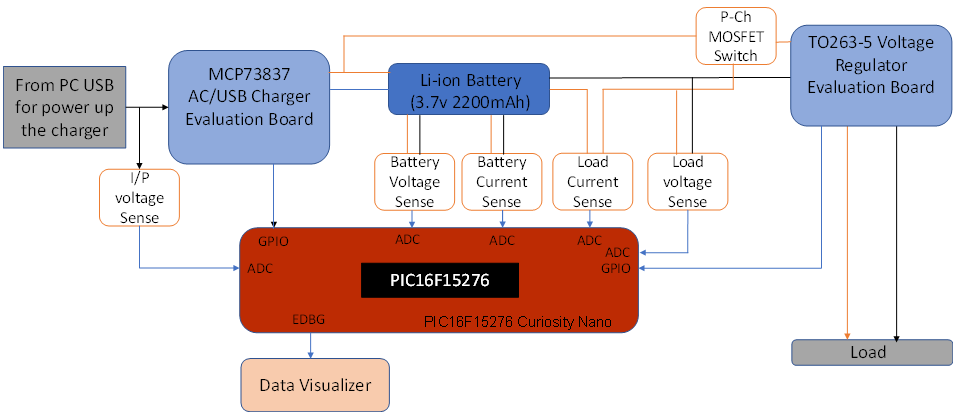
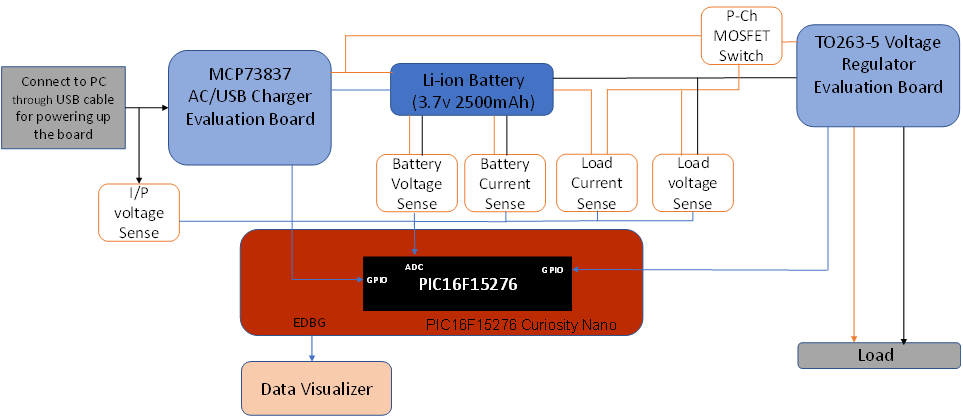
MPAE-13277 Updated the readme blockdiagram

diff --git a/README.md b/README.md
@@ -24,7 +24,7 @@ This code example highlights the implementation of a Battery Monitoring System u
 
 ## Demo Description 
 
-The Battery Monitoring System code example aims to measure the power drawn by connected load and estimate the SoC of the battery. A Lithium-ion Battery with 2500MAH capacity, MCP73837/8 AC/USB Dual Input Battery Charger Evaluation Board, TO220-5 Voltage Regulator Evaluation Board with MCP1826 LDO and measurement circuits are used in the code example for battery monitoring system demonstration.
+The Battery Monitoring System code example aims to measure the power drawn by connected load and estimate the SoC of the battery. A Lithium-ion Battery with 2500mAh capacity, MCP73837/8 AC/USB Dual Input Battery Charger Evaluation Board, TO220-5 Voltage Regulator Evaluation Board with MCP1826 LDO and measurement circuits are used in the code example for battery monitoring system demonstration.
 
 The measurement circuits are built on MikroElektronika PROTO click using passive and active electronic components, to measure charging and discharging current of the battery and voltage across the input, battery, and load (load resistor). The Battery Charger Evaluation Board is used to charge the battery when the battery voltage goes below (certain) voltage and Voltage Regulator Evaluation Board is used to provide constant voltage of 0.8V to the load.
 
